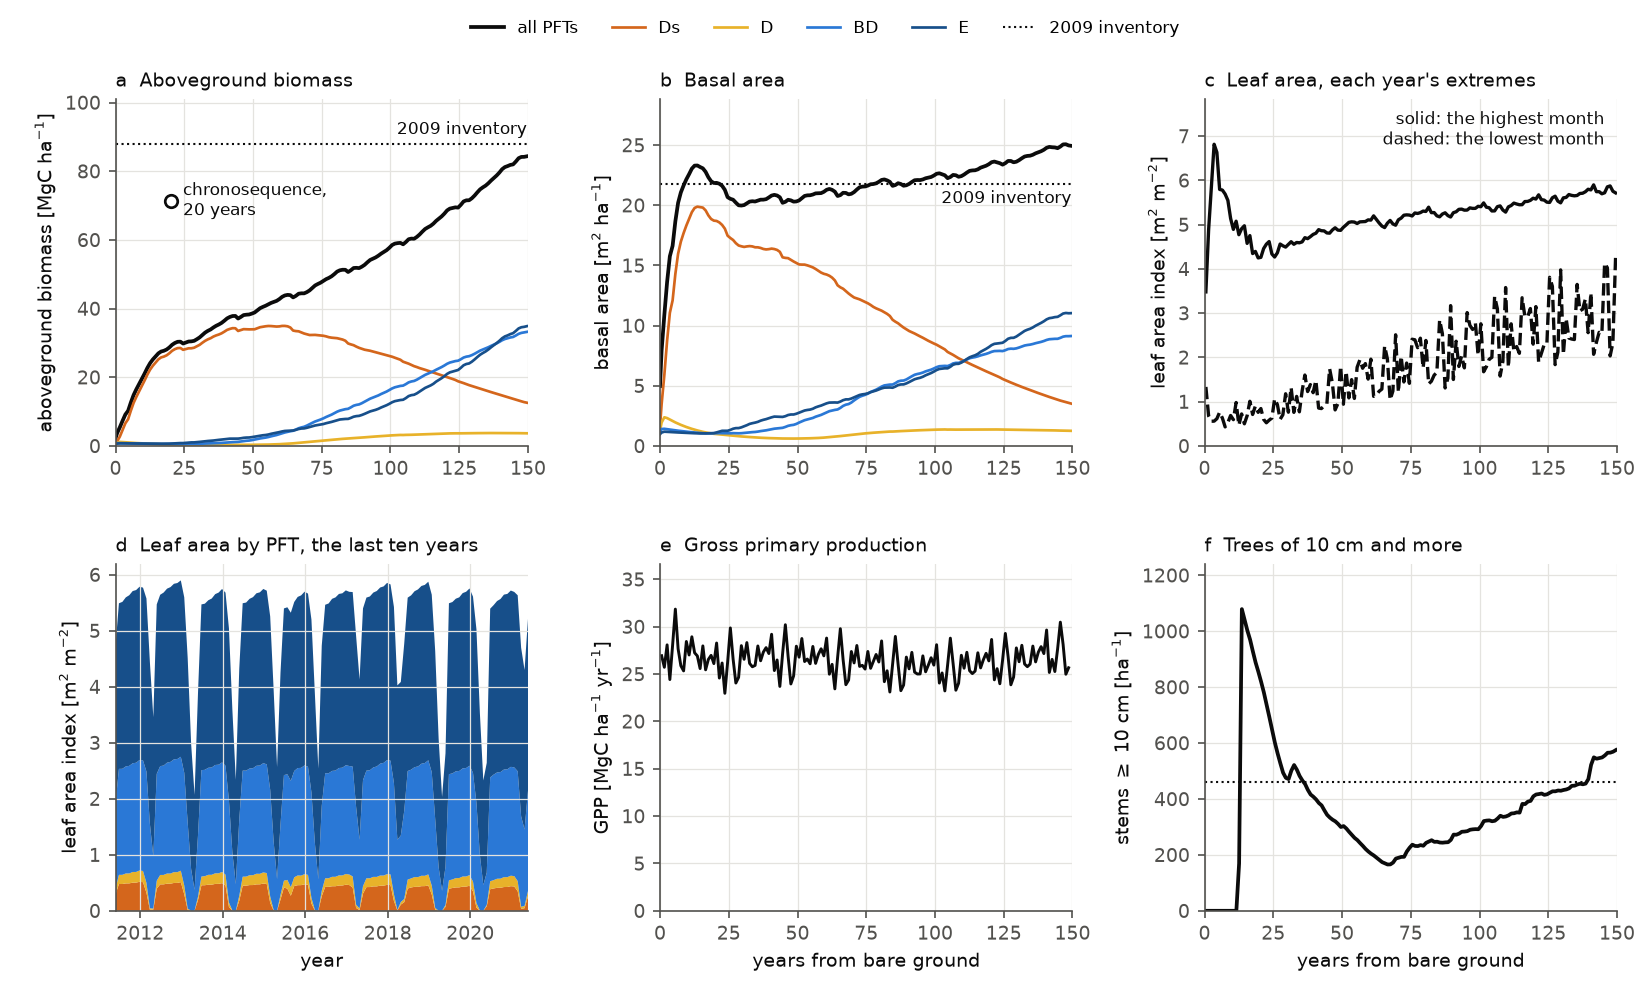
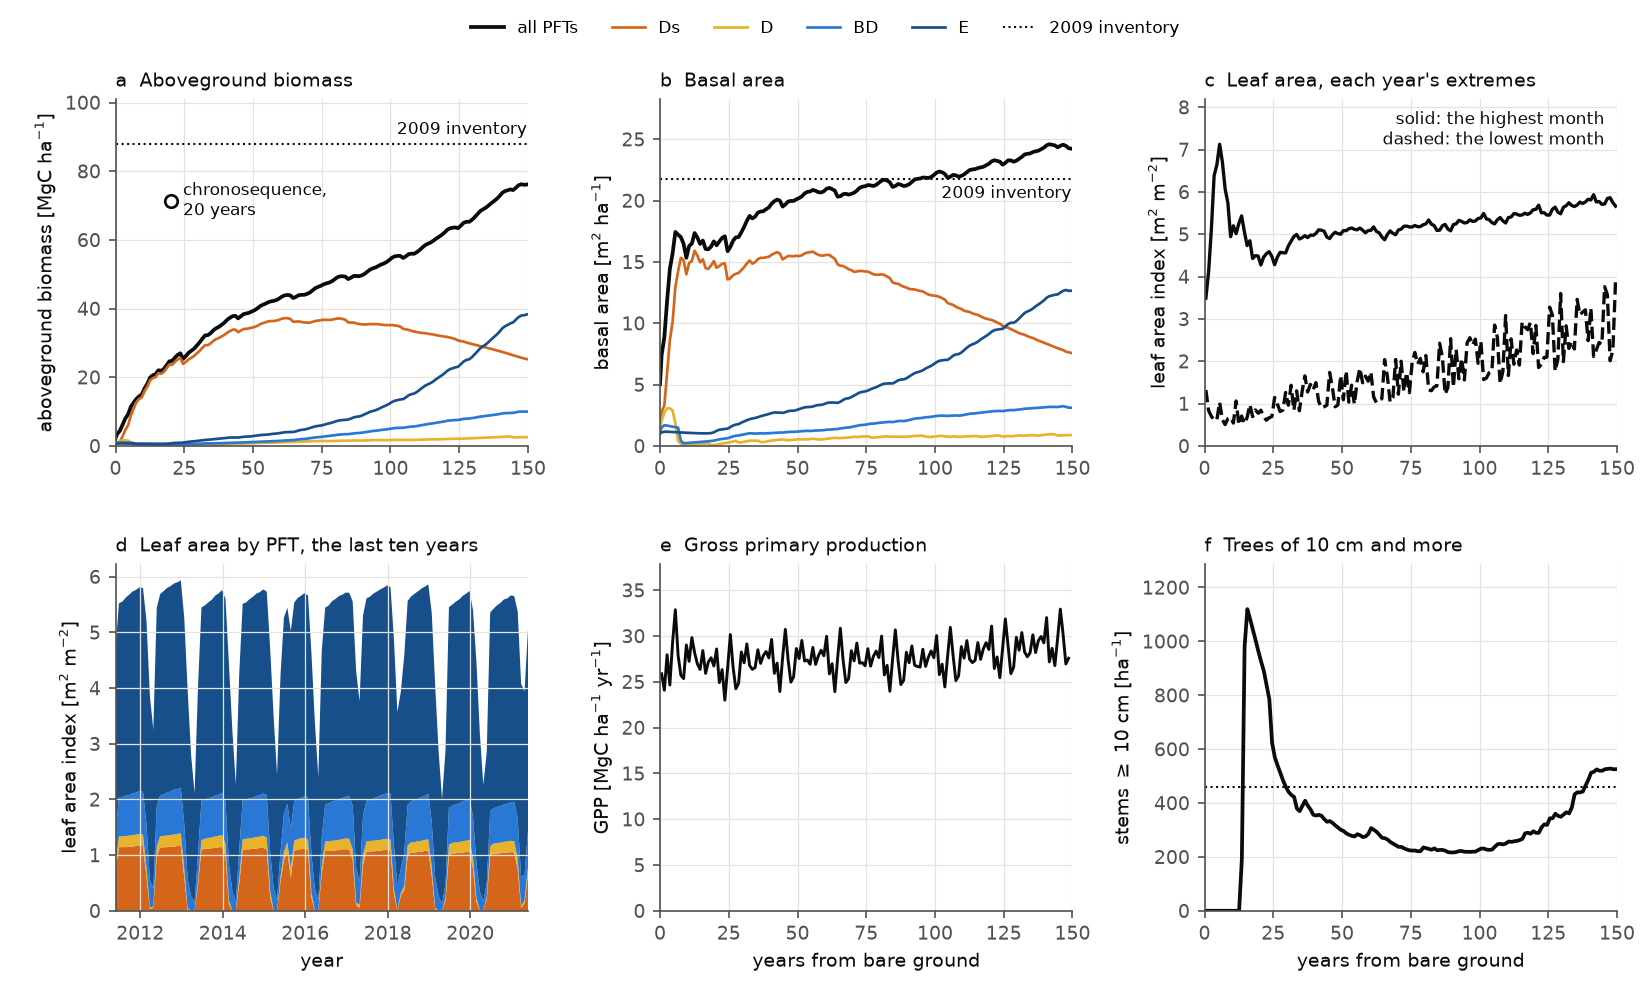
Example 05, Palo Verde: inventory check and 150-year regrowth rerun on the fast-loop follow-up
The inventory check (2008-2010) barely moves against its last run (v0.3.5): leaf litter 0.494 -> 0.496
kg dry m-2 yr-1 (the table's 0.49 -> 0.50), AGB growth of trees >= 10 cm 0.471 -> 0.470, GPP 2.703 ->
2.702 kgC m-2 yr-1; relative growth, lowest leaf cover, stand LAI and mortality unchanged at the
table's precision.

The 150-year regrowth was last run with v0.3.4, so its moves are everything since then, not this
follow-up alone. At 150 years AGB 84.3 -> 76.1 MgC/ha, with the mix shifted from BD to Ds: Ds 12.6 ->
25.3, D 3.7 -> 2.5, BD 33.2 -> 10.0, E 34.9 -> 38.3; basal area 24.9 -> 24.2 m2/ha; trees >= 10 cm 575
-> 526 /ha. Ds peaks at 37.2 (34.9) MgC/ha at 62 years; E passes it at 134 years (120), BD no longer
does (116). The early basal-area overshoot (23 m2/ha at 13 years) is gone: 17 m2/ha within six years,
held for 25. AGB at 20 years 28.1 -> 23.5; last-ten-year GPP 27.1 -> 29.1 MgC/ha/yr and ET 956 -> 978
mm/yr; the driest month's LAI there 2.98 -> 2.80. The README drops its note that the regrowth was not
repeated after the sweep. The regrowth takes 36 minutes on 12 threads (about an hour before).

diff --git a/examples/example05_forest_regeneration/README.md b/examples/example05_forest_regeneration/README.md
@@ -190,7 +190,7 @@ this stand:
 
 | 2009–2010 | MEDS | Target |
 |---|---|---|
-| Leaf litter [kg dry m⁻² yr⁻¹] | 0.49 | 0.5 (litter traps 0.54) |
+| Leaf litter [kg dry m⁻² yr⁻¹] | 0.50 | 0.5 (litter traps 0.54) |
 | AGB growth of trees ≥ 10 cm [kg dry m⁻² yr⁻¹] | 0.47 | 0.3–0.5 |
 | Relative AGB growth, Ds / D / BD / E [% yr⁻¹] | 5.6 / 4.1 / 3.0 / 1.1 | 5 / 2–3 / 2–3 / 1–2 |
 | Lowest leaf cover, Ds / D / BD / E | 0.02 / 0.01 / 0.33 / 0.75 | bare / bare / 0.25–0.5 / ≥ 0.5 |
@@ -212,26 +212,25 @@ and Palo Verde's chronosequence at 20 years (Poorter et al. 2016, *Nature* 530: 
 year's highest and lowest monthly leaf area index; the last ten years' leaf area by PFT; GPP; and the
 trees of 10 cm and more.
 
-The 150-year regrowth, this figure and the table below were made with v0.3.4; they were not repeated
-after the 2026-10 sweep.
-
 | | MEDS, 150 years | 2009 inventory |
 |---|---|---|
-| AGB [MgC ha⁻¹], all / Ds / D / BD / E | 84 / 13 / 4 / 33 / 35 | 88 / 2 / 16 / 56 / 14 |
-| basal area [m² ha⁻¹] | 24.9 | 21.8 |
-| trees ≥ 10 cm [ha⁻¹] | 575 | 460 |
+| AGB [MgC ha⁻¹], all / Ds / D / BD / E | 76 / 25 / 3 / 10 / 38 | 88 / 2 / 16 / 56 / 14 |
+| basal area [m² ha⁻¹] | 24.2 | 21.8 |
+| trees ≥ 10 cm [ha⁻¹] | 526 | 460 |
 
 - **The soft-wooded deciduous PFT takes the bare ground.** Ds holds about 90 % of the biomass for 50
-  years, peaking at 35 MgC ha⁻¹ at 62 years, and thins after; BD and E build up beneath it and pass
-  it at 116 and 120 years. Basal area overshoots to 23 m² ha⁻¹ at 13 years, a dense Ds stand of 1,080
-  trees ≥ 10 cm ha⁻¹, and thins.
-- **After 150 years the biomass is the inventory's, the mix is not.** The evergreen PFT holds 2.5
-  times the inventory's biomass and D a quarter of it; the stand still gains 0.6 MgC ha⁻¹ a year.
-- **The first decades are slow:** 28 MgC ha⁻¹ after 20 years, against 71 on Palo Verde's
+  years, peaking at 37 MgC ha⁻¹ at 62 years, and thins after; E builds up beneath it and passes it
+  at 134 years, while BD stays below 10 MgC ha⁻¹. Basal area reaches 17 m² ha⁻¹ within six years and
+  holds there for 25, a dense Ds stand of up to 1,120 trees ≥ 10 cm ha⁻¹ at 16 years, which thins to
+  220 by 90 years.
+- **After 150 years the biomass is 87 % of the inventory's, and the mix is not the inventory's.** The
+  evergreen PFT holds 2.8 times the inventory's biomass and Ds 13 times, D and BD a sixth of theirs;
+  the stand still gains 0.5 MgC ha⁻¹ a year.
+- **The first decades are slow:** 23 MgC ha⁻¹ after 20 years, against 71 on Palo Verde's
   chronosequence (143 dry Mg ha⁻¹), the same shortfall as across example 06's region.
-- **The canopy grows more evergreen.** The driest month's leaf area rises from below 1 in the
-  Ds decades to 3.0 in the last ten years (the wettest month 5.8); in the 2009 stand it is 2.2
-  (MODIS 1.5). GPP stays near 27 MgC ha⁻¹ yr⁻¹ throughout, and evapotranspiration is 956 mm a year
+- **The canopy grows more evergreen.** The driest month's leaf area rises from below 1 in the first
+  thirty years to 2.8 in the last ten years (the wettest month 5.8); in the 2009 stand it is 2.2
+  (MODIS 1.5). GPP stays near 28 MgC ha⁻¹ yr⁻¹ throughout, and evapotranspiration is 978 mm a year
   in the last ten years.
 
 ### Run
@@ -247,7 +246,7 @@ The archive can also be named by the environment variable `ERA5LAND_ARCHIVE`. Th
 forcing cut into `palo_verde/data/`; the inventory check reads the archive itself, so the script runs a
 copy of `meds_config_inventory.toml` with the archive's folder in `[forcing].data_path`
 (`palo_verde/output/config/inventory.toml`). To run that config by hand, set `data_path` to the folder.
-The forcing cut takes about 4 minutes, the inventory check 2 and the regrowth about an hour on 12
+The forcing cut takes about 6 minutes, the inventory check 2 and the regrowth about 36 minutes on 12
 threads (`[run].n_threads`). Output goes to `palo_verde/output/`.
 
 ## Files
